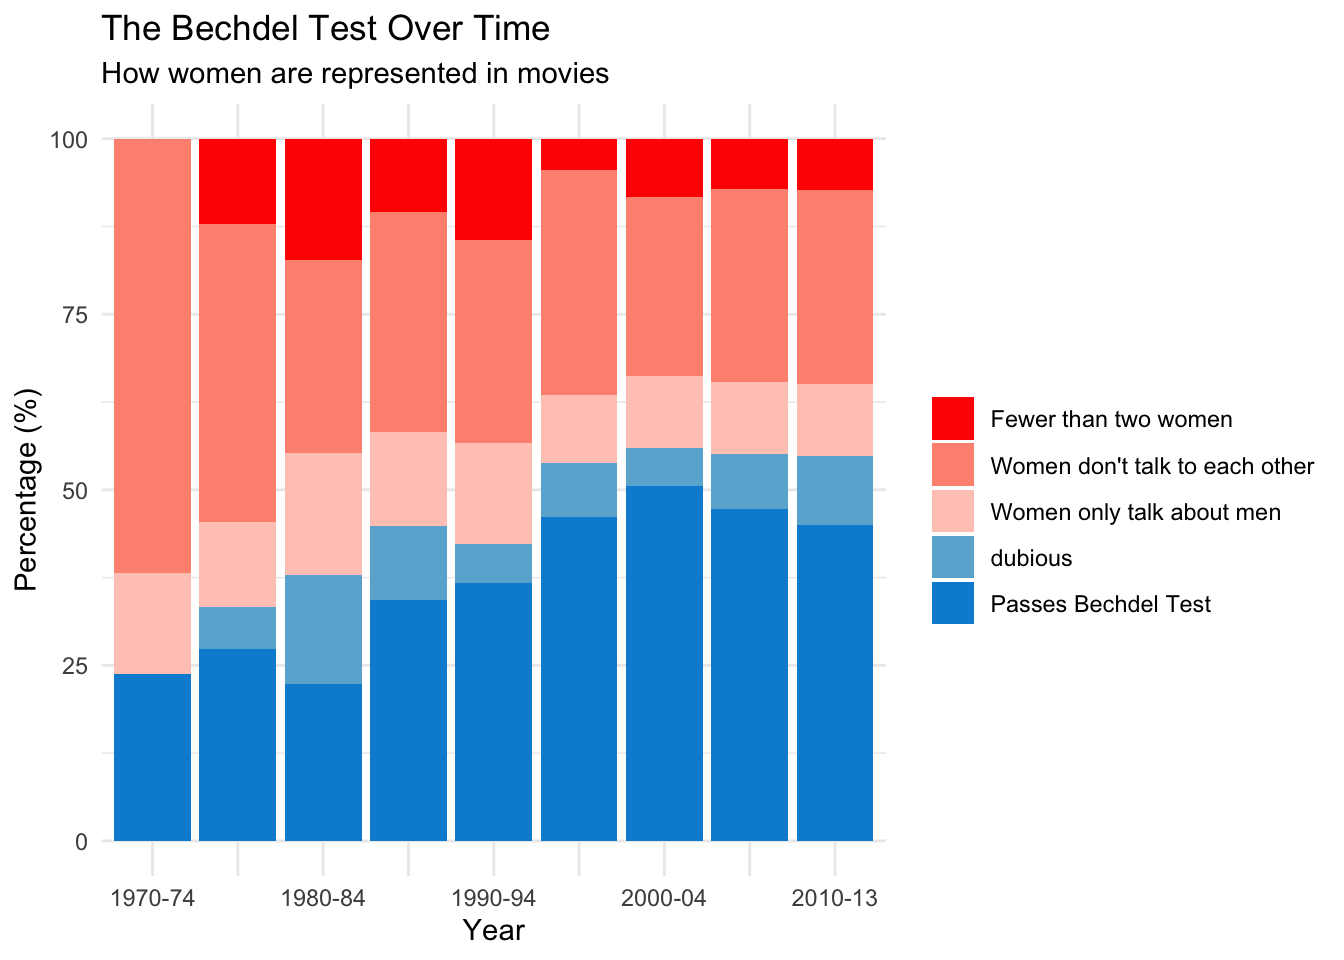
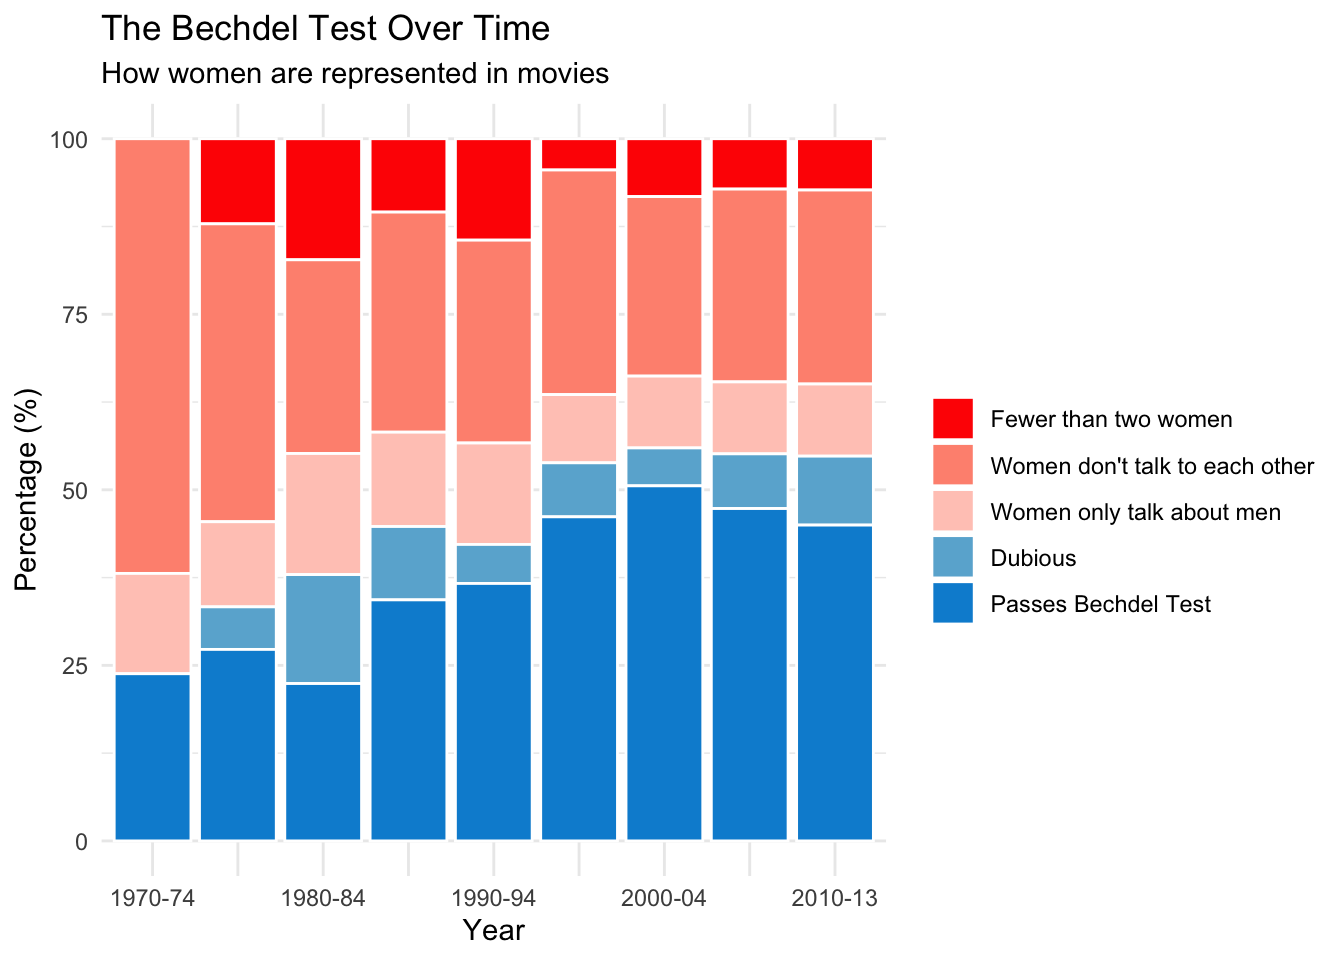
Build site.

diff --git a/docs/gender.html b/docs/gender.html
@@ -426,7 +426,7 @@ div.tocify {
 <div class="tab-content">
 <div id="summary" class="tab-pane fade in active">
 <p>
-<strong>Last updated:</strong> 2021-03-16
+<strong>Last updated:</strong> 2021-03-23
 </p>
 <p>
 <strong>Checks:</strong> <span class="glyphicon glyphicon-ok text-success" aria-hidden="true"></span> 7 <span class="glyphicon glyphicon-exclamation-sign text-danger" aria-hidden="true"></span> 0
@@ -517,16 +517,16 @@ This reproducible <a href="http://rmarkdown.rstudio.com">R Markdown</a> analysis
 <div class="panel panel-default">
 <div class="panel-heading">
 <p class="panel-title">
-<a data-toggle="collapse" data-parent="#workflowr-checks" href="#strongRepositoryversionstrongahrefhttpsgithubcomnhihinTidyTuesdaytreeb0b17f33ecc8cc608802fb88d835e03ad7504821targetblankb0b17f3a"> <span class="glyphicon glyphicon-ok text-success" aria-hidden="true"></span> <strong>Repository version:</strong> <a href="https://github.com/nhihin/TidyTuesday/tree/b0b17f33ecc8cc608802fb88d835e03ad7504821" target="_blank">b0b17f3</a> </a>
+<a data-toggle="collapse" data-parent="#workflowr-checks" href="#strongRepositoryversionstrongahrefhttpsgithubcomnhihinTidyTuesdaytree66ebe88585413df6b78677a49d3ee1fbea4a2e6etargetblank66ebe88a"> <span class="glyphicon glyphicon-ok text-success" aria-hidden="true"></span> <strong>Repository version:</strong> <a href="https://github.com/nhihin/TidyTuesday/tree/66ebe88585413df6b78677a49d3ee1fbea4a2e6e" target="_blank">66ebe88</a> </a>
 </p>
 </div>
[2 lines of base64/hex data omitted]
 <div class="panel-body">
 <p>
 Great! You are using Git for version control. Tracking code development and connecting the code version to the results is critical for reproducibility.
 </p>
 <p>
-The results in this page were generated with repository version <a href="https://github.com/nhihin/TidyTuesday/tree/b0b17f33ecc8cc608802fb88d835e03ad7504821" target="_blank">b0b17f3</a>. See the <em>Past versions</em> tab to see a history of the changes made to the R Markdown and HTML files.
+The results in this page were generated with repository version <a href="https://github.com/nhihin/TidyTuesday/tree/66ebe88585413df6b78677a49d3ee1fbea4a2e6e" target="_blank">66ebe88</a>. See the <em>Past versions</em> tab to see a history of the changes made to the R Markdown and HTML files.
 </p>
 <p>
 Note that you need to be careful to ensure that all relevant files for the analysis have been committed to Git prior to generating the results (you can use <code>wflow_publish</code> or <code>wflow_git_commit</code>). workflowr only checks the R Markdown file, but you know if there are other scripts or data files that it depends on. Below is the status of the Git repository when the results were generated:
@@ -535,9 +535,6 @@ Note that you need to be careful to ensure that all relevant files for the analy
 Ignored files:
     Ignored:    .Rhistory
     Ignored:    .Rproj.user/
-
-Unstaged changes:
-    Modified:   analysis/_site.yml
 
 </code></pre>
 <p>
@@ -576,6 +573,40 @@ Message
 </tr>
 </thead>
 <tbody>
+<tr>
+<td>
+Rmd
+</td>
+<td>
+<a href="https://github.com/nhihin/TidyTuesday/blob/66ebe88585413df6b78677a49d3ee1fbea4a2e6e/analysis/gender.Rmd" target="_blank">66ebe88</a>
+</td>
+<td>
+Nhi Hin
+</td>
+<td>
+2021-03-23
+</td>
+<td>
+wflow_publish(“analysis/gender.Rmd”)
+</td>
+</tr>
+<tr>
+<td>
+html
+</td>
+<td>
+<a href="https://rawcdn.githack.com/nhihin/TidyTuesday/2144705bedd05d188fc8bce30fccf65f6a09e56d/docs/gender.html" target="_blank">2144705</a>
+</td>
+<td>
+Nhi Hin
+</td>
+<td>
+2021-03-16
+</td>
+<td>
+Build site.
+</td>
+</tr>
 <tr>
 <td>
 html
@@ -689,8 +720,8 @@ raw_bechdel &lt;- tuesdata$raw_bechdel</code></pre>
 #   genre &lt;chr&gt;, awards &lt;chr&gt;, runtime &lt;chr&gt;, type &lt;chr&gt;, poster &lt;chr&gt;,
 #   imdb_votes &lt;dbl&gt;, error &lt;lgl&gt;</code></pre>
 </div>
-<div id="analysis" class="section level2">
-<h2>Analysis</h2>
+<div id="analysis-part-1---the-bechdel-test-over-time" class="section level2">
+<h2>Analysis Part 1 - The Bechdel Test Over Time</h2>
 <ul>
 <li>Let’s try to reproduce the following plot from the <a href="https://fivethirtyeight.com/features/the-dollar-and-cents-case-against-hollywoods-exclusion-of-women/">FiveThirtyEight article</a>.</li>
 </ul>
@@ -789,7 +820,7 @@ movies$year_bin &lt;- factor(group_tags,
 </ul>
 <pre class="r"><code>movies %&gt;%
   ggplot(aes(x=year_bin, fill = forcats::fct_rev(clean_test))) +
-  geom_bar(position = &quot;fill&quot;)+
+  geom_bar(position = &quot;fill&quot;, color = &quot;white&quot;)+
   scale_x_discrete(labels = c(&quot;[1970-1974)&quot; = &quot;1970-74&quot;,
                               &quot;[1975-1979)&quot; = &quot;&quot;,
                               &quot;[1980-1984)&quot; = &quot;1980-84&quot;, 
@@ -806,7 +837,7 @@ movies$year_bin &lt;- factor(group_tags,
           subtitle = &quot;How women are represented in movies&quot;) +
   scale_fill_manual(values = c(&quot;#ff2600&quot;, &quot;#ff937f&quot;, &quot;#ffcac0&quot;, &quot;#6ab2d5&quot;, &quot;#008fd5&quot;),
                     labels = c(&quot;ok&quot;=&quot;Passes Bechdel Test&quot;,
-                                 &quot;Dubious&quot;=&quot;Dubious&quot;,
+                                 &quot;dubious&quot;=&quot;Dubious&quot;,
                                  &quot;men&quot;=&quot;Women only talk about men&quot;,
                                  &quot;notalk&quot;=&quot;Women don&#39;t talk to each other&quot;,
                                  &quot;nowomen&quot;=&quot;Fewer than two women&quot;))</code></pre>
@@ -848,6 +879,49 @@ Nhi Hin
 </table>
 </div>
 </div>
+</div>
+<div id="analysis-part-2---median-budget-for-films" class="section level2">
+<h2>Analysis Part 2 - Median Budget for Films</h2>
+<ul>
+<li>Also trying to recreate this plot:</li>
+</ul>
+<p><img src="https://fivethirtyeight.com/wp-content/uploads/2014/04/hickey-bechdel-2.png?w=1220" /></p>
+<ul>
+<li><p>The <code>budget_2013</code> variable makes it simple as this contains dollars which have already been adjusted to be in 2013 dollars as the FiveThirtyEight plot shows.</p></li>
+<li><p>We will prepare a summarised data.frame that contains the median of <code>budget_2013</code> across all films in each category of the Bechdel Test result stored in <code>clean_test</code>.</p></li>
+</ul>
+<pre class="r"><code>movies_summary &lt;- movies %&gt;%
+  dplyr::group_by(clean_test) %&gt;%
+  dplyr::summarise(median_budget_2013 = median(budget_2013)) %&gt;%
+  dplyr::mutate(label = case_when(
+    clean_test == &quot;ok&quot; ~ &quot;Passes Bechdel Test&quot;,
+    clean_test == &quot;dubious&quot; ~ &quot;Dubious&quot;,
+    clean_test == &quot;men&quot; ~ &quot;Women only talk about men&quot;,
+    clean_test == &quot;notalk&quot; ~ &quot;Women don&#39;t talk to each other&quot;,
+    clean_test == &quot;nowomen&quot; ~ &quot;Fewer than two women&quot;
+  )) %&gt;%
+  dplyr::mutate(median_budget_2013_M = median_budget_2013 / 1e6)</code></pre>
+<ul>
+<li>The bar plot can now be plotted as follows:</li>
+</ul>
+<pre class="r"><code>movies_summary %&gt;%
+  ggplot(aes(x = median_budget_2013_M, y = label)) +
+  geom_bar(stat = &quot;identity&quot;, fill = &quot;cornflowerblue&quot;) +
+  labs(x = &quot;millions of dollars&quot;, y = &quot;&quot;) +
+  ggtitle(&quot;Median Budget for Films Since 1990&quot;, 
+          subtitle = &quot;2013 dollars&quot;)</code></pre>
+<p><img src="figure/gender.Rmd/unnamed-chunk-10-1.png" width="1056" style="display: block; margin: auto;" /></p>
+</div>
+<div id="analysis-part-3---sankey-plot-incomplete" class="section level2">
+<h2>Analysis Part 3 - Sankey Plot (Incomplete)</h2>
+<ul>
+<li>This part of the analysis comes from Jodi, who showcased a very interesting and effective use of Sankey plots in the Slack channel.</li>
+</ul>
+<pre class="r"><code>nodes &lt;- movies$clean_test %&gt;% 
+  unique() %&gt;%
+  as.data.frame %&gt;%
+  set_colnames(&quot;name&quot;) %&gt;%
+  tibble::rowid_to_column(&quot;node&quot;)</code></pre>
 <br>
 <p>
 <button type="button" class="btn btn-default btn-workflowr btn-workflowr-sessioninfo" data-toggle="collapse" data-target="#workflowr-sessioninfo" style="display: block;">
@@ -871,8 +945,8 @@ attached base packages:
 [1] stats     graphics  grDevices utils     datasets  methods   base     
 
 other attached packages:
-[1] scales_1.1.1       ggplot2_3.3.3      magrittr_2.0.1     dplyr_1.0.4       
-[5] tidytuesdayR_1.0.1 workflowr_1.6.2   
+[1] htmlwidgets_1.5.3  networkD3_0.4      scales_1.1.1       ggplot2_3.3.3     
+[5] magrittr_2.0.1     dplyr_1.0.4        tidytuesdayR_1.0.1 workflowr_1.6.2   
 
 loaded via a namespace (and not attached):
  [1] tidyselect_1.1.0  xfun_0.21         purrr_0.3.4       colorspace_2.0-0 
@@ -889,7 +963,7 @@ loaded via a namespace (and not attached):
 [45] tibble_3.0.6      crayon_1.4.1      whisker_0.4       pkgconfig_2.0.3  
 [49] ellipsis_0.3.1    xml2_1.3.2        lubridate_1.7.9.2 assertthat_0.2.1 
 [53] rmarkdown_2.6     httr_1.4.2        rstudioapi_0.13   R6_2.5.0         
-[57] git2r_0.28.0      compiler_4.0.3   </code></pre>
+[57] igraph_1.2.6      git2r_0.28.0      compiler_4.0.3   </code></pre>
 </div>
 </div>
 
